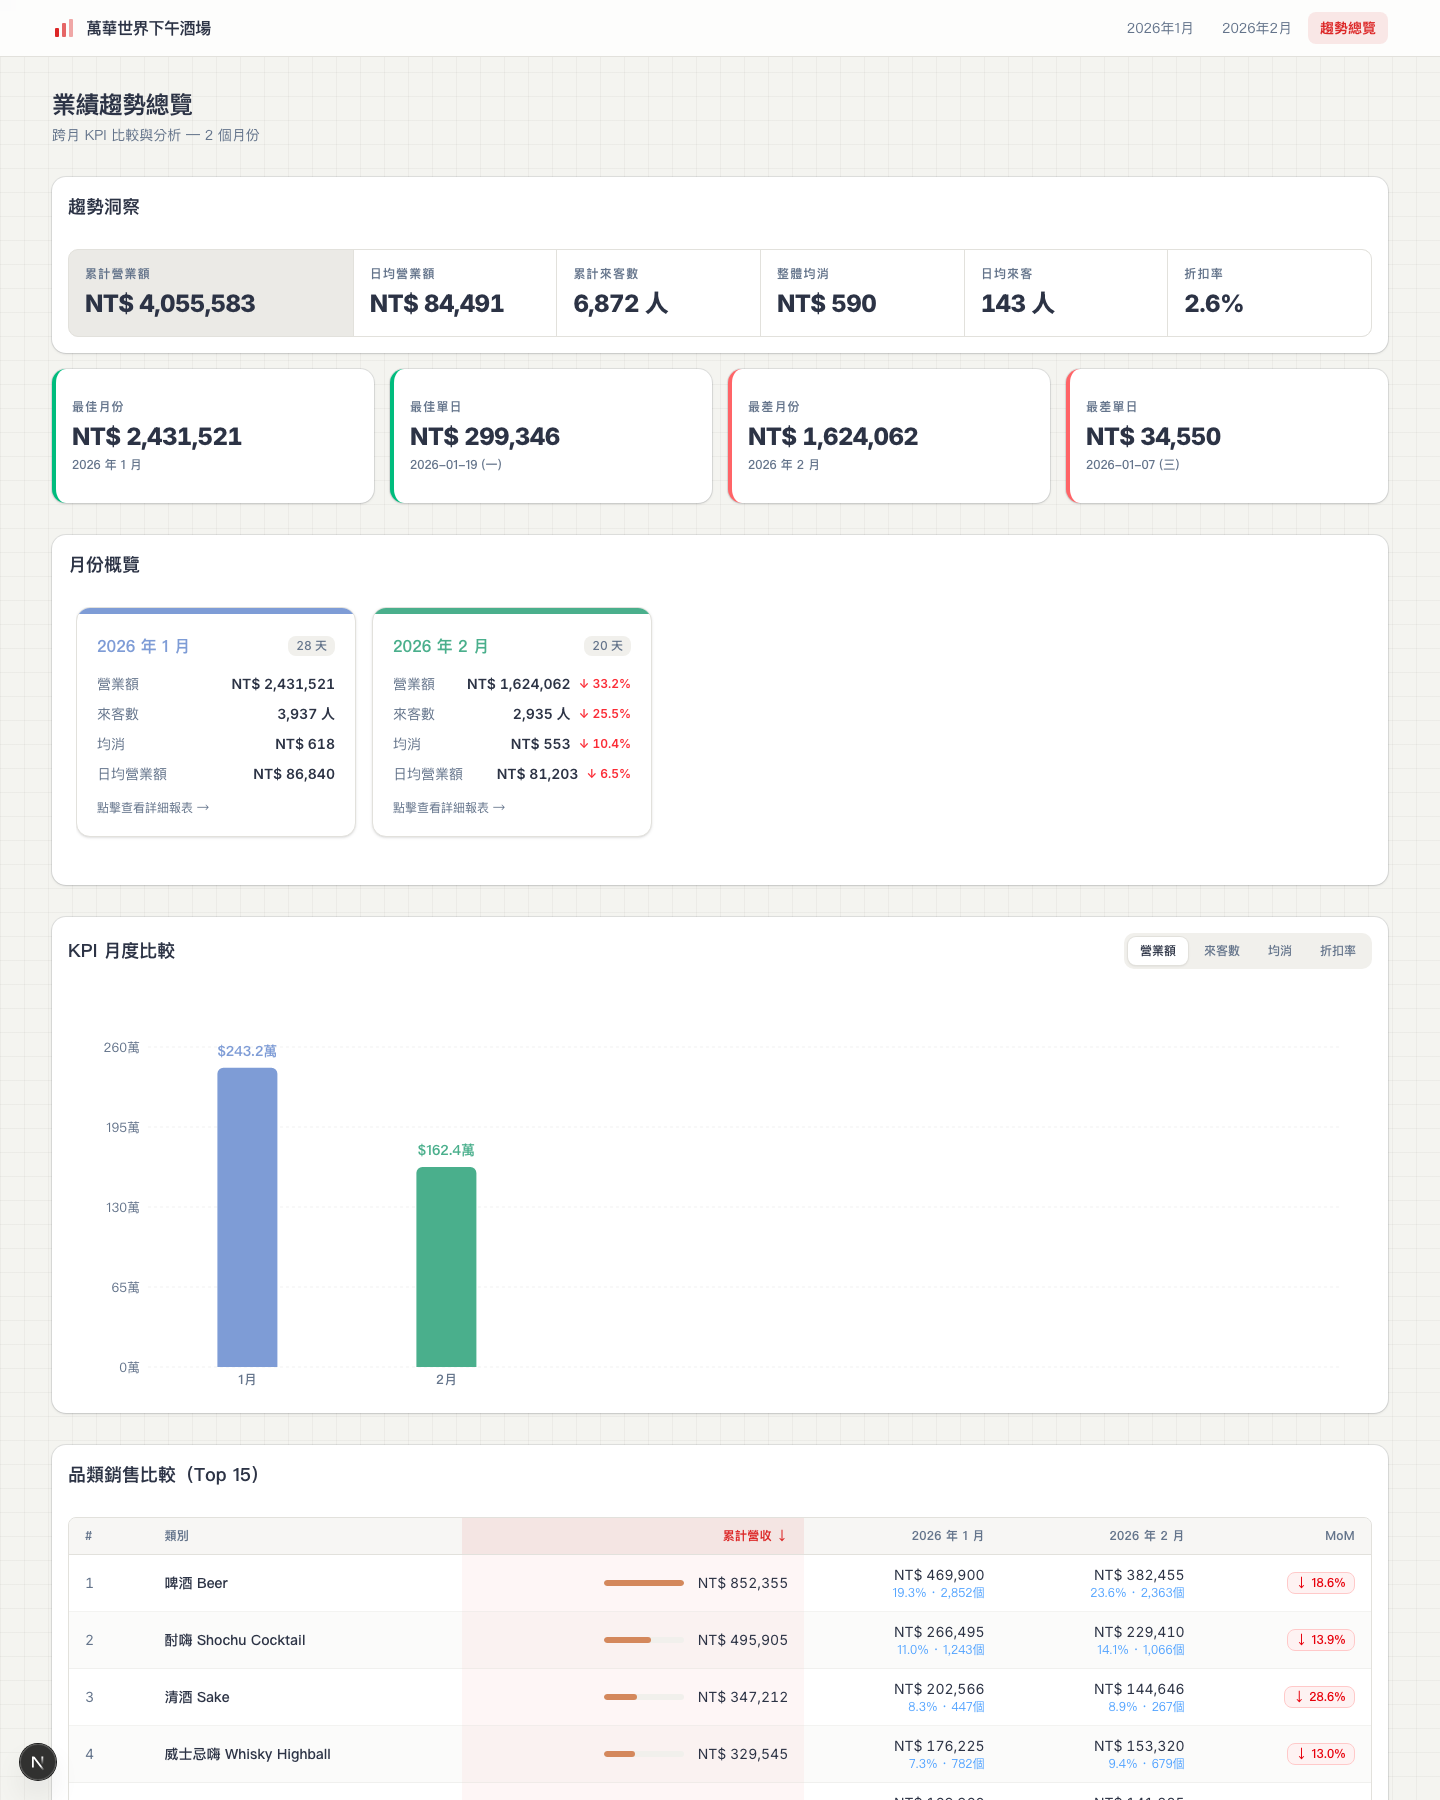
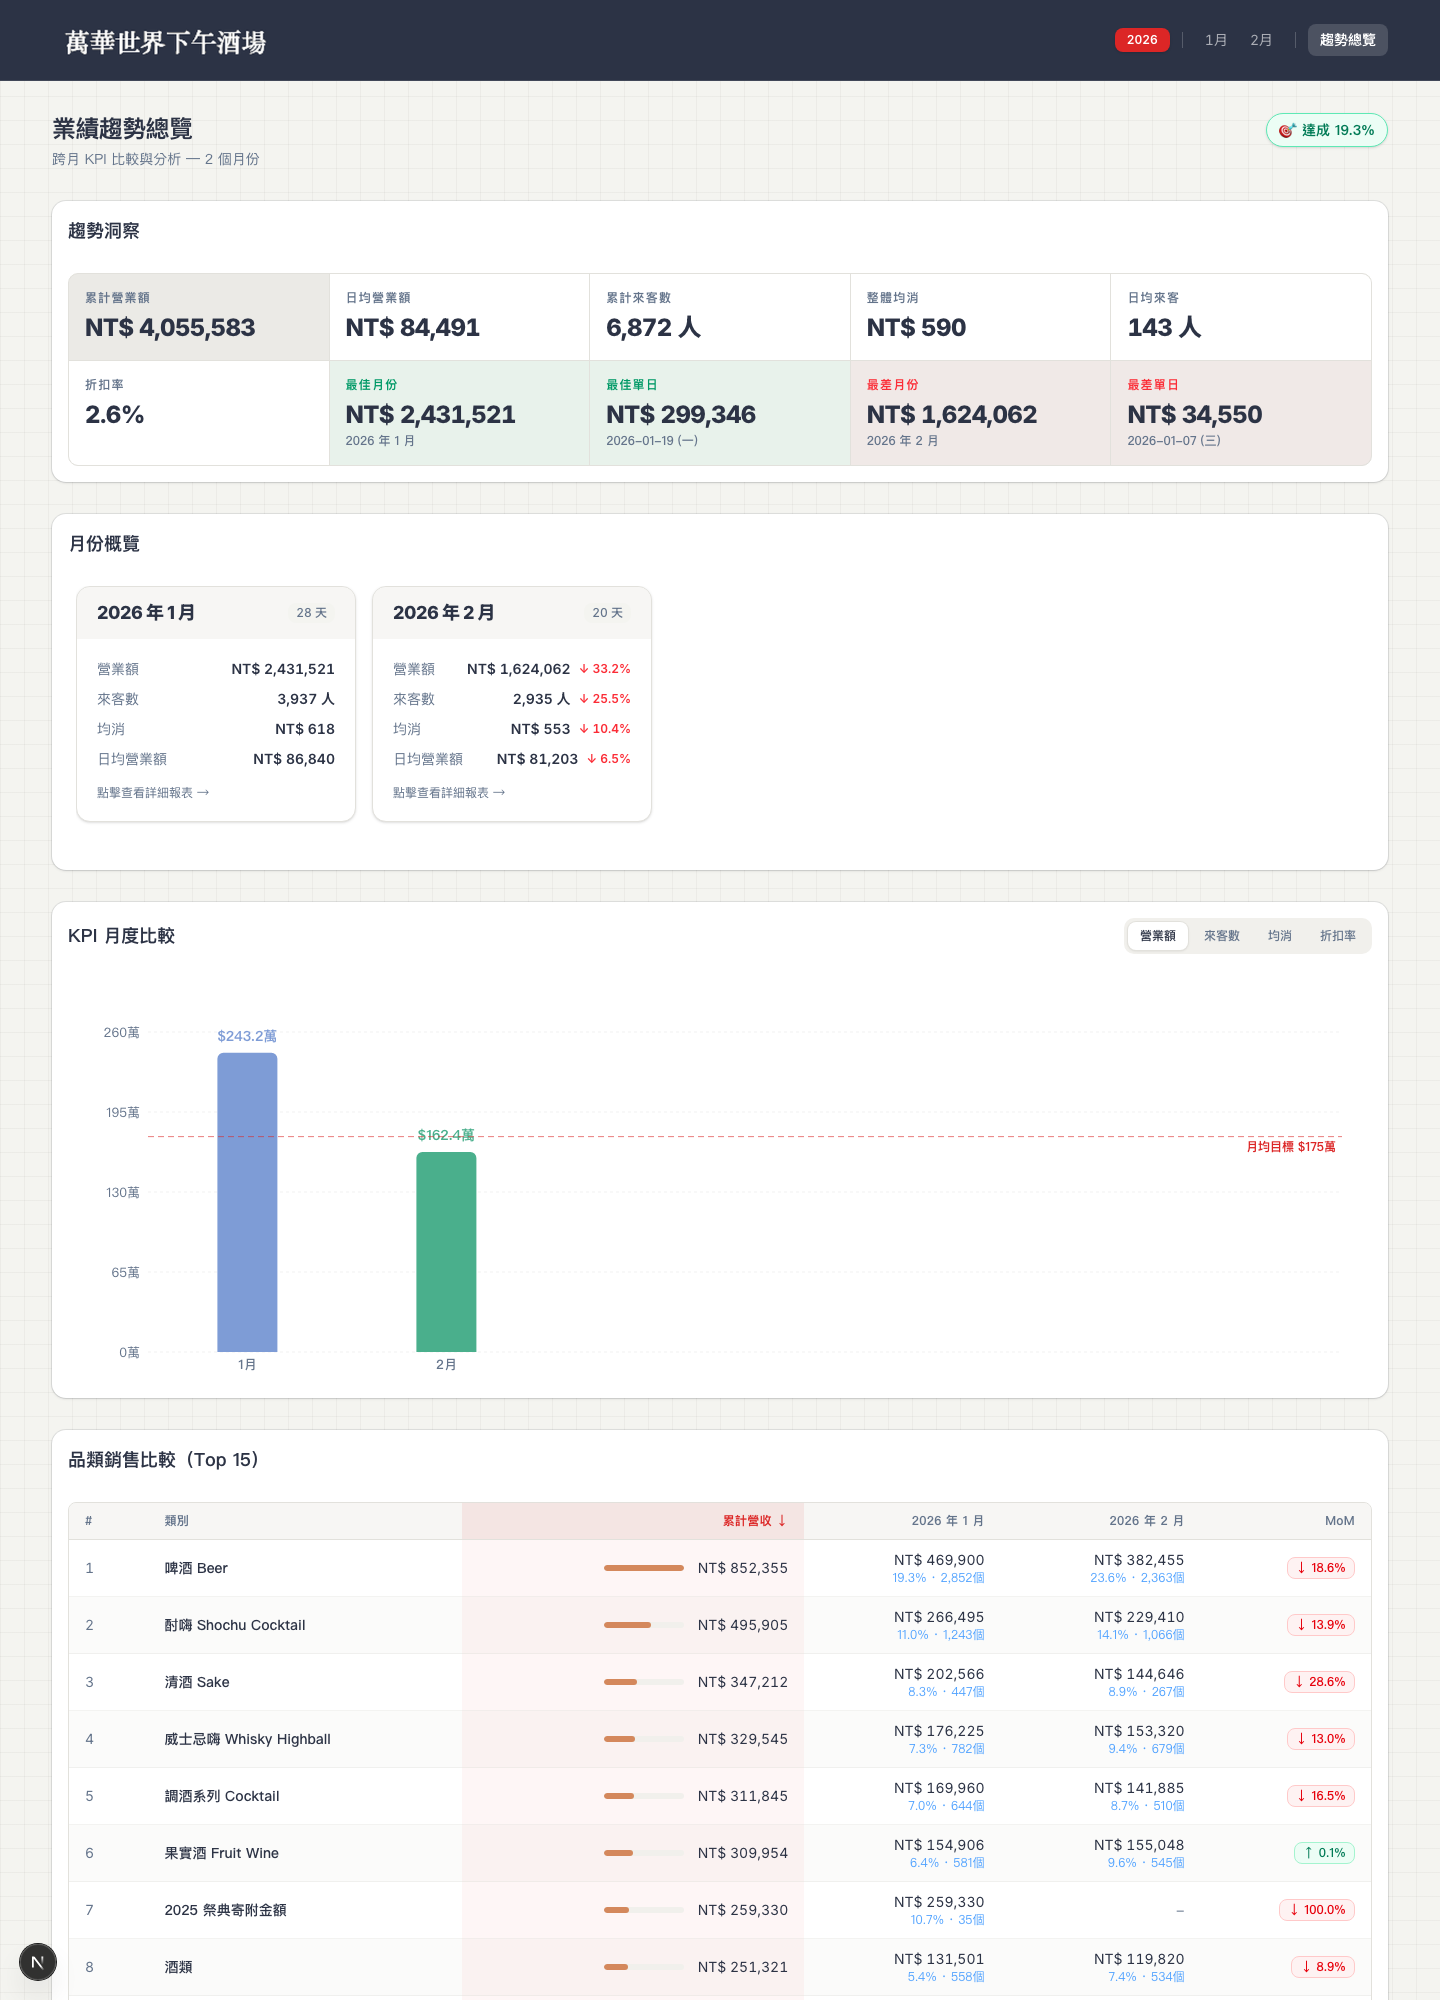
update: 萬華世界儀表板 — 新增年度目標追蹤 + UI 改善紀錄
- 第五階段（Session 14）：年度目標 Sheet 面板、趨勢洞察 5×2 網格、Tab pill UI
- 更新 Takeaway：UI 迭代式協作的價值
- 更新截圖：趨勢頁（含目標徽章）、月報頁（含新 Tab 樣式）

diff --git a/wanhua-dashboard/devlog.html b/wanhua-dashboard/devlog.html
@@ -618,7 +618,7 @@
       <h1>萬華世界業績儀表板</h1>
       <div class="hero-rule"></div>
       <p class="hero-desc">一間下午酒場的老闆，想把每個月從 POS 系統匯出的 Excel 報表變成看得懂、能追蹤的視覺化儀表板。沒有工程師背景，只有 Claude Code 和一個模糊的想法。</p>
-      <div class="hero-meta">整理日期：2026-03-15 &nbsp;·&nbsp; 類型：工具開發（非工程師視角）+ AI 協作</div>
+      <div class="hero-meta">整理日期：2026-03-16 &nbsp;·&nbsp; 類型：工具開發（非工程師視角）+ AI 協作</div>
     </header>
 
     <!-- Case Card -->
@@ -633,7 +633,7 @@
       </div>
       <div class="case-card-row">
         <span class="case-card-label">最終成果</span>
-        <span class="case-card-value">Next.js 儀表板上線（Vercel 自動部署）· 8 KPI 卡片 + 每日/類別/商品三分頁 + 跨月趨勢 · 密碼保護 · 一鍵更新月報</span>
+        <span class="case-card-value">Next.js 儀表板上線（Vercel 自動部署）· 8 KPI 卡片 + 每日/類別/商品三分頁 + 跨月趨勢 + 年度目標追蹤 · 密碼保護 · 一鍵更新月報</span>
       </div>
     </div>
 
@@ -755,9 +755,15 @@
       </div>
 
       <div class="subsection">
-        <div class="subsection-label">第四階段：打磨 + 上線（Session 11-15）</div>
+        <div class="subsection-label">第四階段：打磨 + 上線（Session 11-13）</div>
         <p>UI 全面升級（8 格 KPI 卡片、可互動的表格、員工排班搜尋）、部署到 Vercel、加密碼保護、建自動化 Skill、寫使用教學頁面。</p>
         <p>這個階段的特點是：每個 session 的 scope 都很小，一次只做一件事。不再是「大幅重寫」，而是「精確添加」。</p>
+      </div>
+
+      <div class="subsection">
+        <div class="subsection-label">第五階段：經營決策功能（Session 14）</div>
+        <p>加入年度目標追蹤——團隊每年會設定營業額目標（例如 2026 年目標 NT$2,100 萬），希望在趨勢頁面隨時看到達成進度。</p>
+        <p>這個 session 的互動模式很有代表性：我提出需求（「想追蹤年度目標」），Claude 先規劃完整方案（P0~P3 四個層級），我只挑了 P0 + P1。然後在 UI 設計上來回了好幾輪——從一張大卡片 → 改成右側滑出面板 → 調整卡片層級 → 加入進度狀態色彩 → 合併趨勢洞察為 5×2 網格 → 月份卡片改成中性灰 → Tab 按鈕改成深灰 pill + emoji。每一步都是我看到畫面後，用一句話描述感受（「太花了」「好像兩個框套在一起」「鮮紅色太突兀」），Claude 立刻調整。</p>
       </div>
     </section>
 
@@ -860,12 +866,20 @@
         </ul>
       </div>
 
-      <div class="result-preview">
-        <img src="./screenshots/trend.png" alt="萬華世界趨勢總覽 — 跨月 KPI 比較與品類銷售分析" />
-        <div class="result-preview-caption">
-          <span class="result-preview-badge">趨勢頁面</span>
-          跨月 KPI 比較柱狀圖 + 月份概覽卡片 + 品類銷售排行，追蹤營運趨勢變化
+      <div class="subsection">
+        <div class="subsection-label">趨勢頁面</div>
+        <div class="result-preview">
+          <img src="./screenshots/trend.png" alt="萬華世界趨勢總覽 — 年度目標追蹤 + 趨勢洞察 5×2 網格 + KPI 月度比較" />
+          <div class="result-preview-caption">
+            <span class="result-preview-badge">趨勢頁面</span>
+            年度目標達成徽章 + 趨勢洞察 5×2 KPI 網格 + 月份概覽 + KPI 月度比較（含月均目標紅色虛線）
+          </div>
         </div>
+        <ul>
+          <li><strong>🎯 年度目標追蹤：</strong>右上角徽章顯示達成率，點擊滑出面板——含進度條、達成率（色彩反映狀態）、預估全年、進度分析摘要</li>
+          <li><strong>📊 趨勢洞察 5×2 網格：</strong>累計營業額、日均、來客數等 5 個 KPI + 最佳/最差月份和單日紀錄</li>
+          <li><strong>📈 KPI 月度比較：</strong>柱狀圖可切換指標，營業額模式下有紅色月均目標虛線</li>
+        </ul>
       </div>
 
       <div class="subsection">
@@ -883,9 +897,9 @@
 
       <ul>
         <li><strong>手機版優化</strong>——現在的表格和圖表在手機上不太好用，需要做響應式調整。但因為主要使用場景是在電腦上看報表，暫時不急。</li>
-        <li><strong>更多趨勢分析</strong>——目前趨勢頁只有 KPI 比較。可以加類別趨勢（「精釀啤酒這三個月的銷售變化」）和商品排行趨勢（「哪個商品在成長」）。</li>
+        <li><strong>更多趨勢分析</strong>——可以加類別趨勢（「精釀啤酒這三個月的銷售變化」）和商品排行趨勢（「哪個商品在成長」）。</li>
         <li><strong>自動抓取 iChef 資料</strong>——現在還是要手動下載 Excel。如果 iChef 有 API，可以做成全自動——每月 1 號自動抓上月資料。</li>
-        <li><strong>多店面擴展</strong>——如果開了第二家店，架構上應該能直接複製一個 instance。</li>
+        <li><strong>目標細化</strong>——目前年度目標只有營業額全年均分。未來可以支援月份差異化目標（旺季/淡季不同）、甚至來客數、均消等多維度目標。</li>
       </ul>
     </section>
 
@@ -899,7 +913,8 @@
       <div class="takeaway">
         <div class="takeaway-label">這個案例展示了什麼</div>
         <p>一個非工程師背景的餐飲業者，用 Claude Code 在兩週內從零建出完整的業績儀表板。關鍵不是 AI 會寫程式碼——而是 AI 能夠理解「我想看到什麼」，然後選出對的工具和架構來實現。</p>
-        <p>最有效的提問模式是<strong>症狀描述型</strong>（「表格的字體看起來怪怪的」）和<strong>需求驅動型</strong>（「我想要能搜尋員工看他哪天有上班」）。不需要知道技術名詞，只要能清楚描述你看到什麼、想要什麼。</p>
+        <p>最有效的提問模式是<strong>症狀描述型</strong>（「表格的字體看起來怪怪的」「鮮紅色太突兀」「好像兩個框套在一起」）和<strong>需求驅動型</strong>（「我想追蹤年度目標達成率」「同事常常漏掉分頁」）。不需要知道技術名詞，只要能清楚描述你看到什麼、想要什麼。</p>
+        <p>Session 14 特別展現了 <strong>UI 迭代式協作</strong>的價值：Tab 按鈕的設計來回了五輪（白底 → 紅底 → 深色容器 → 獨立 pill → 最終微調），每輪都是一句話的感受回饋，AI 立刻調整。這種「看到 → 說感受 → 下一版」的節奏，比寫詳細規格書更快也更準確。</p>
       </div>
 
       <div class="takeaway">
@@ -915,7 +930,7 @@
     </section>
 
     <footer>
-      <span>整理自 AI 協作開發紀錄 · <strong>2026-03-15</strong></span>
+      <span>整理自 AI 協作開發紀錄 · <strong>2026-03-16</strong></span>
       <span>工具開發（非工程師視角）+ AI 協作</span>
     </footer>
   </main>

diff --git a/wanhua-dashboard/devlog.md b/wanhua-dashboard/devlog.md
@@ -2,7 +2,7 @@
 
 > 🤖 **我用 AI 做了什麼**：用 Claude Code 從 POS 匯出的 Excel 開始，一路建到有密碼保護、自動部署的業績儀表板，過程中零手寫程式碼
 > ⏱ **沒有 AI 的話**：找外包或自學前端，保守估計 2-3 個月；更可能的結果是一直停在「用 Excel 看數字」的階段
-> ✅ **最終成果**：Next.js 儀表板上線（Vercel 自動部署）· 8 KPI 卡片 + 每日/類別/商品三分頁 + 跨月趨勢 · 密碼保護 · 一鍵更新月報
+> ✅ **最終成果**：Next.js 儀表板上線（Vercel 自動部署）· 8 KPI 卡片 + 每日/類別/商品三分頁 + 跨月趨勢 + 年度目標追蹤 · 密碼保護 · 一鍵更新月報
 
 > 一間下午酒場的老闆，想把每個月從 POS 系統匯出的 Excel 報表變成看得懂、能追蹤的視覺化儀表板。沒有工程師背景，只有 Claude Code 和一個模糊的想法。
 
@@ -51,11 +51,17 @@
 
 重寫後，新增月份變成「放一個 JSON 檔案進去」就好，不用改任何程式碼。動態路由 `app/month/[id]` 自動處理所有月份。
 
-**第四階段：打磨 + 上線（Session 11-15）**
+**第四階段：打磨 + 上線（Session 11-13）**
 
 UI 全面升級（8 格 KPI 卡片、可互動的表格、員工排班搜尋）、部署到 Vercel、加密碼保護、建自動化 Skill、寫使用教學頁面。
 
 這個階段的特點是：每個 session 的 scope 都很小，一次只做一件事。不再是「大幅重寫」，而是「精確添加」。
+
+**第五階段：經營決策功能（Session 14）**
+
+加入年度目標追蹤——團隊每年會設定營業額目標（例如 2026 年目標 NT$2,100 萬），希望在趨勢頁面隨時看到達成進度。
+
+這個 session 的互動模式很有代表性：我提出需求（「想追蹤年度目標」），Claude 先規劃完整方案（P0~P3 四個層級），我只挑了 P0 + P1。然後在 UI 設計上來回了好幾輪——從一張大卡片 → 改成右側滑出面板 → 調整卡片層級 → 加入進度狀態色彩 → 合併趨勢洞察為 5×2 網格 → 月份卡片改成中性灰 → Tab 按鈕改成深灰 pill + emoji。每一步都是我看到畫面後，用一句話描述感受（「太花了」「好像兩個框套在一起」「鮮紅色太突兀」），Claude 立刻調整。
 
 ## 四、踩到的坑，讓我更懂的事
 
@@ -102,16 +108,16 @@ Python 腳本用 `uv` 管理依賴，Node.js 用 `nvm` 管理版本。但 Claude
 - 🍺 **類別分析**：類別長條圖 + 散佈圖雙視圖 + Top 10 品項 + 類別詳細表（可點開看月比較）
 - 📋 **商品明細**：100+ 品項的可搜尋、可排序、可篩選表格（點擊品項看詳細數據 + 月比較）
 
-**趨勢頁面**：跨月 KPI 比較柱狀圖（可切換指標）+ 各月概覽卡片 + 洞察卡片（最佳/最差表現）
+**趨勢頁面**：年度目標達成徽章（點擊滑出追蹤面板）+ 趨勢洞察 5×2 KPI 網格（含最佳/最差紀錄）+ 月份概覽卡片 + KPI 月度比較柱狀圖（含月均目標紅色虛線）+ 品類銷售比較
 
 **新增月份**的流程：把 6 個 Excel 放進資料夾 → 對 Claude Code 說「幫我加 3 月報表」→ 自動轉換 + commit + push → Vercel 自動部署。整個過程不到 2 分鐘。
 
 ## 六、如果繼續往下
 
 - **手機版優化**：現在的表格和圖表在手機上不太好用，需要做響應式調整。但因為主要使用場景是在電腦上看報表，這個暫時不急。
-- **更多趨勢分析**：目前趨勢頁只有 KPI 比較。可以加類別趨勢（「精釀啤酒這三個月的銷售變化」）和商品排行趨勢（「哪個商品在成長」）。
+- **更多趨勢分析**：可以加類別趨勢（「精釀啤酒這三個月的銷售變化」）和商品排行趨勢（「哪個商品在成長」）。
 - **自動抓取 iChef 資料**：現在還是要手動從 iChef 後台下載 Excel。如果 iChef 有 API，可以做成全自動——每月 1 號自動抓上月資料、轉換、部署。
-- **多店面擴展**：如果開了第二家店，架構上應該能直接複製一個 instance。但資料結構和路由可能要調整。
+- **目標細化**：目前年度目標只有營業額全年均分。未來可以支援月份差異化目標（旺季/淡季不同）、甚至來客數、均消等多維度目標。
 
 ## Takeaway
 
@@ -119,7 +125,9 @@ Python 腳本用 `uv` 管理依賴，Node.js 用 `nvm` 管理版本。但 Claude
 
 一個非工程師背景的餐飲業者，用 Claude Code 在兩週內從零建出完整的業績儀表板。關鍵不是 AI 會寫程式碼——而是 AI 能夠理解「我想看到什麼」，然後選出對的工具和架構來實現。
 
-最有效的提問模式是**症狀描述型**（「表格的字體看起來怪怪的」「圖表上的數字太小」）和**需求驅動型**（「我想要能搜尋員工看他哪天有上班」「我想比較上個月」）。不需要知道技術名詞，只要能清楚描述你看到什麼、想要什麼。
+最有效的提問模式是**症狀描述型**（「表格的字體看起來怪怪的」「鮮紅色太突兀」「好像兩個框套在一起」）和**需求驅動型**（「我想追蹤年度目標達成率」「同事常常漏掉分頁」）。不需要知道技術名詞，只要能清楚描述你看到什麼、想要什麼。
+
+Session 14 特別展現了 **UI 迭代式協作**的價值：Tab 按鈕的設計來回了五輪（白底 → 紅底 → 深色容器 → 獨立 pill → 最終微調），每輪都是一句話的感受回饋，AI 立刻調整。這種「看到 → 說感受 → 下一版」的節奏，比寫詳細規格書更快也更準確。
 
 **可移植性**
 
@@ -131,4 +139,4 @@ Python 腳本用 `uv` 管理依賴，Node.js 用 `nvm` 管理版本。但 Claude
 
 > 「我有一組 [資料來源] 的 [格式] 資料，每 [週期] 更新一次。我想做一個儀表板，主要想看 [列出 3-5 個你最想追蹤的指標]。你建議怎麼開始？」
 
-_開發日期：2026-03-01 ~ 2026-03-15_
+_開發日期：2026-03-01 ~ 2026-03-16_
